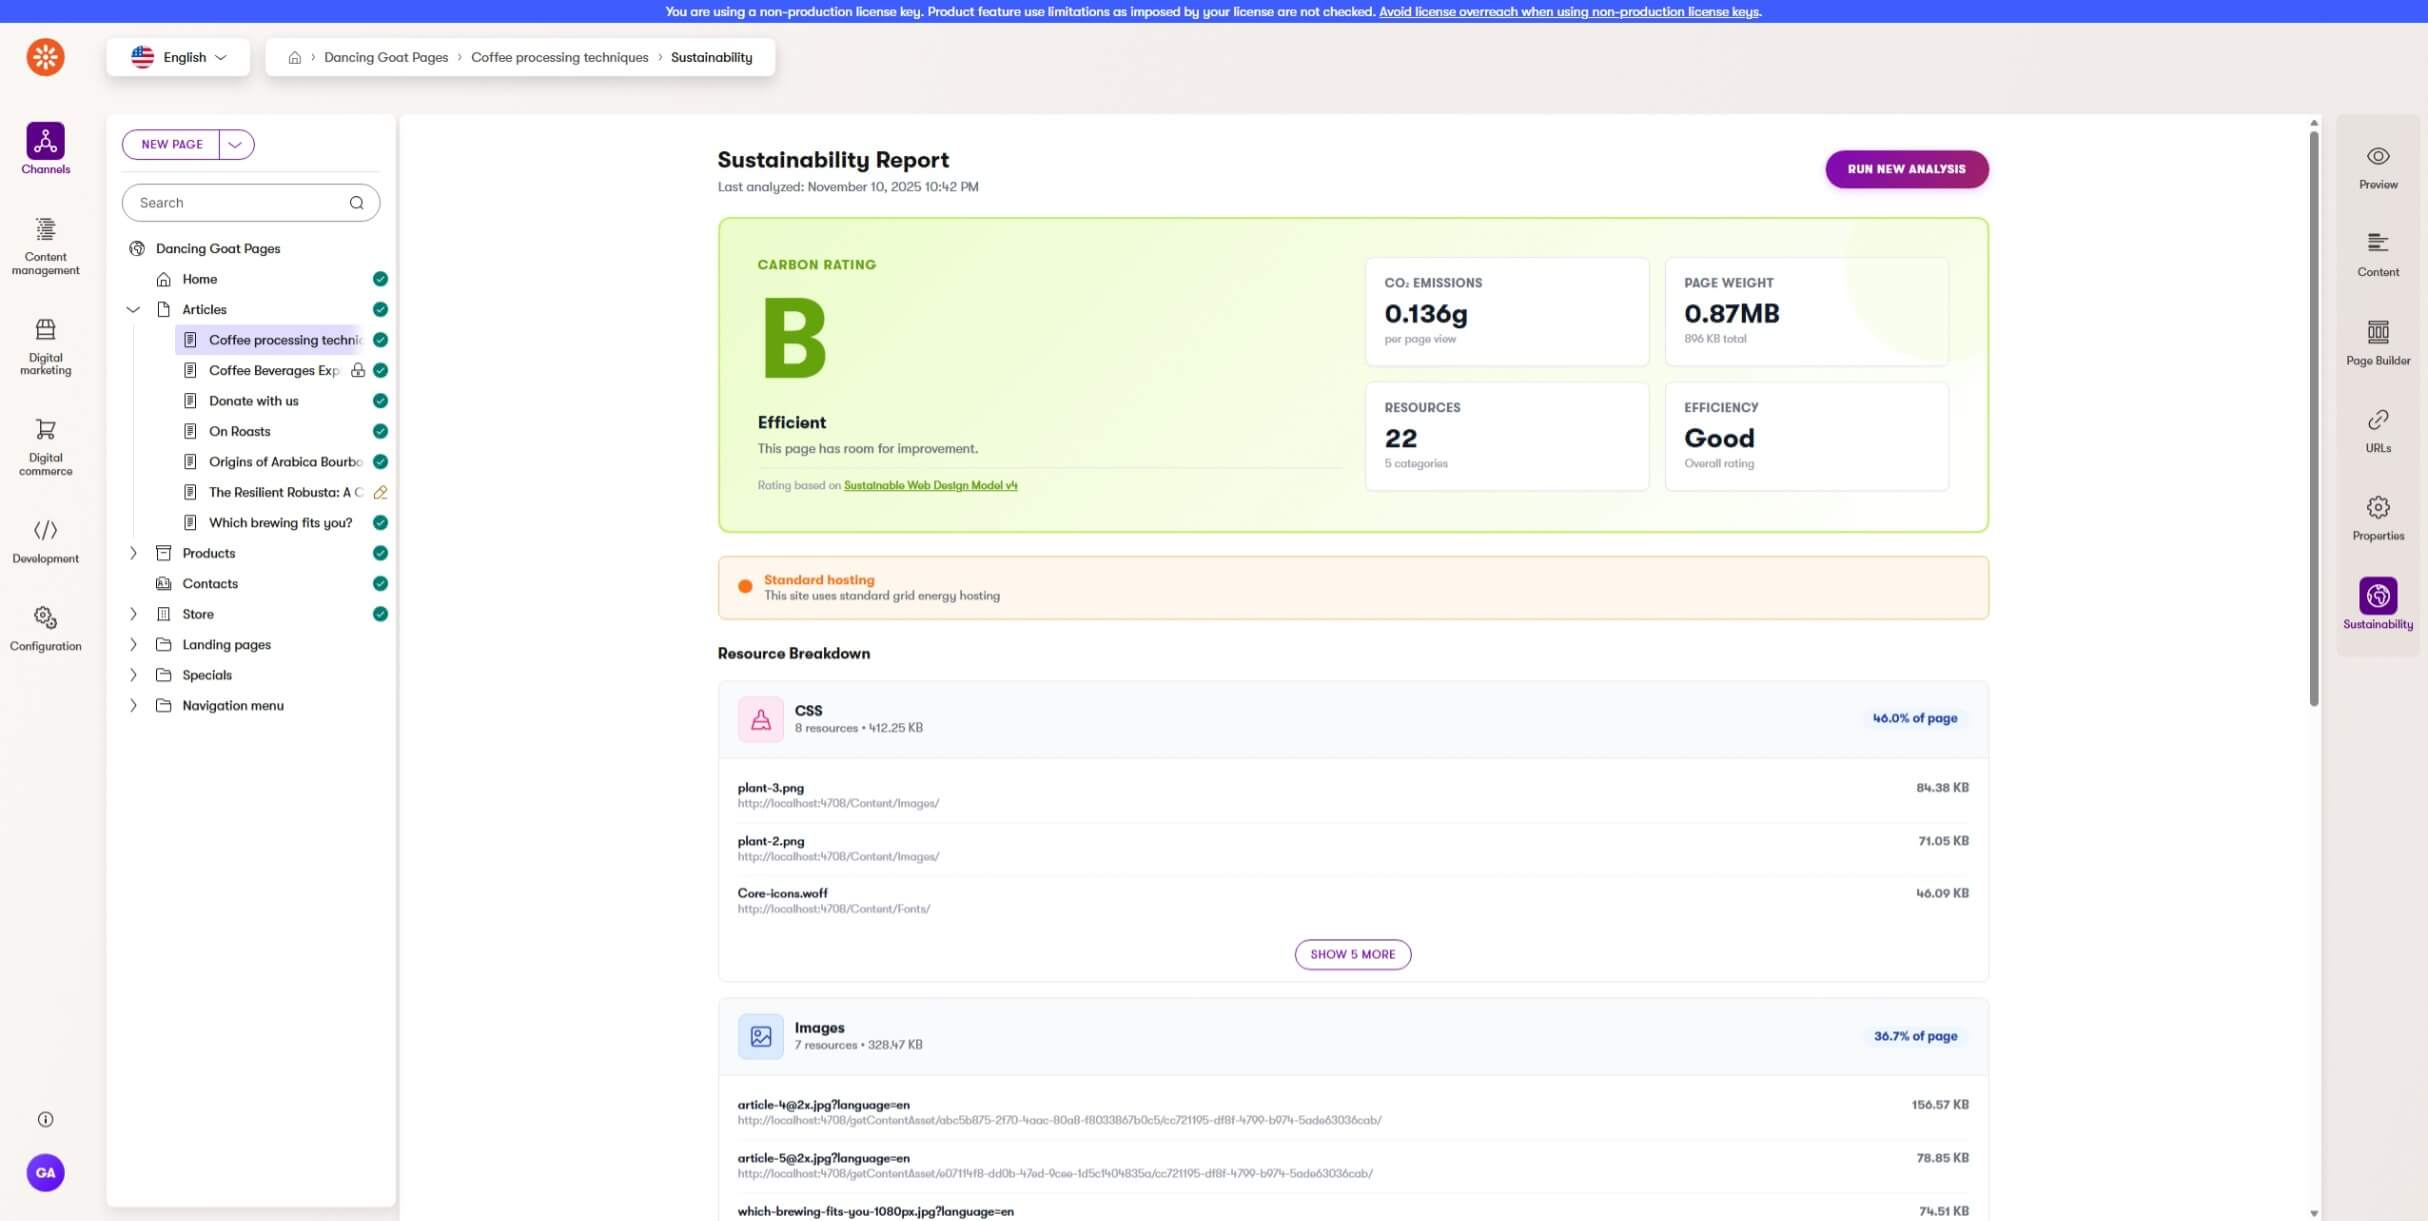
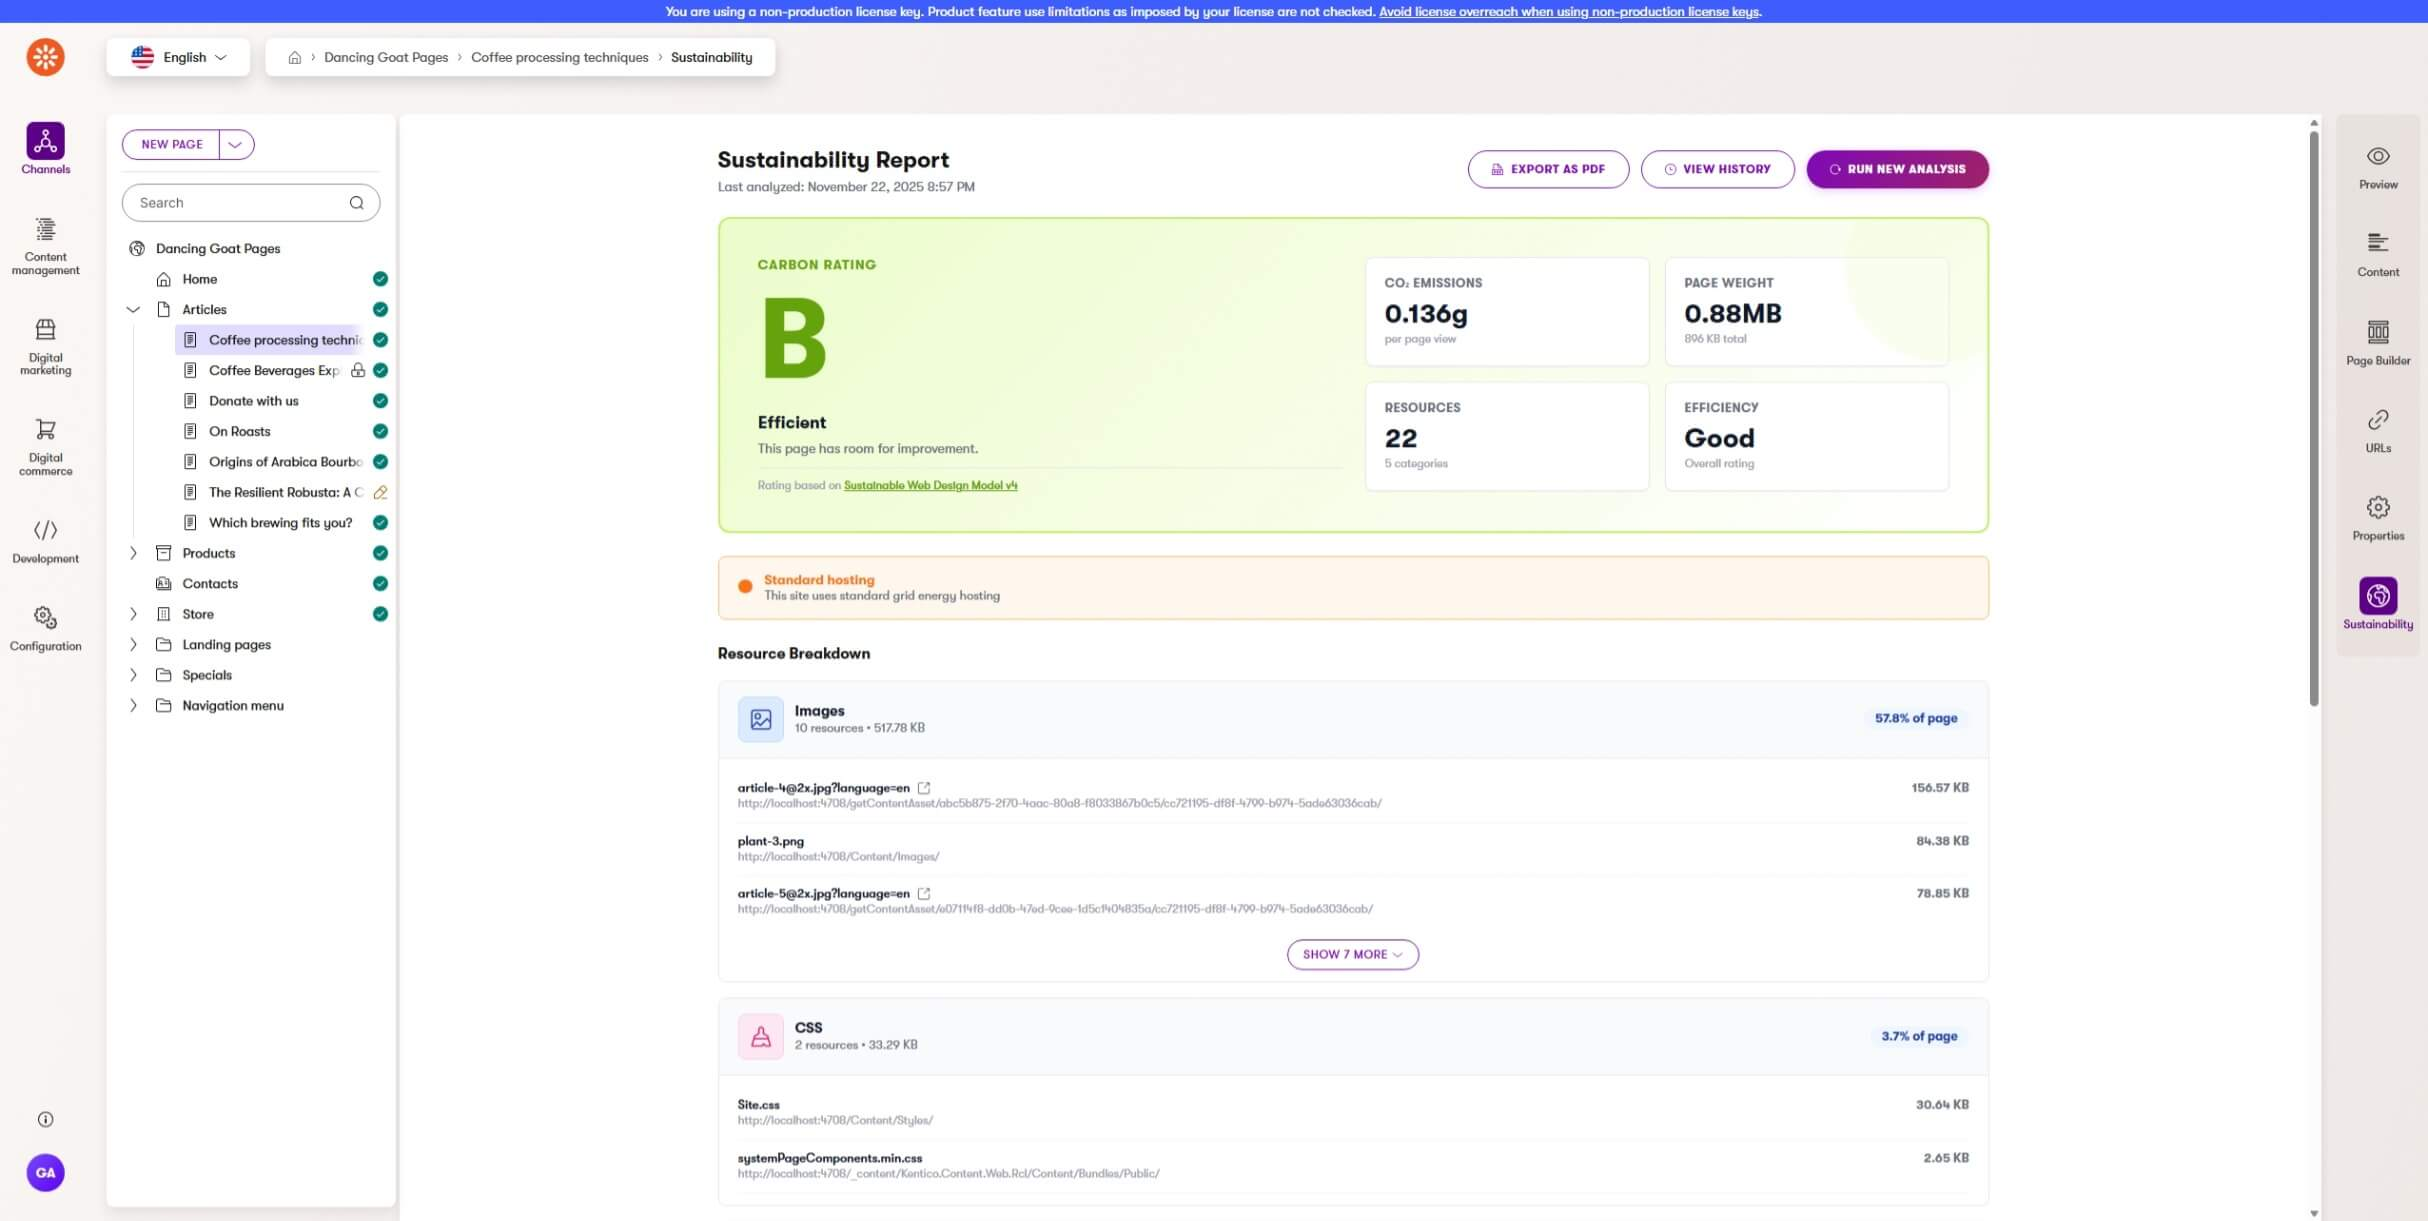
docs: Restructure README with embedded feature screenshots
- Remove standalone Screenshots section
- Embed main screenshot in Sustainability Report feature section
- Embed history screenshot in Historical Tracking feature section
- Update main sustainability report screenshot with new UI buttons
  (Export as PDF, View History, Run New Analysis with icons)
- Add Report History screenshot showing trend charts and historical reports

This improves documentation flow by placing screenshots directly
in their relevant feature sections rather than separating them.

🤖 Generated with [Claude Code](https://claude.com/claude-code)

diff --git a/README.md b/README.md
@@ -12,14 +12,6 @@ A community-driven open-source package that brings sustainability insights and a
 
 > For more details about this package, check out [Bringing Sustainability Insights to Xperience by Kentico](https://www.goldfinch.me/blog/bringing-sustainability-insights-to-xperience-by-kentico) which provides more background information around the package and its origin.
 
-## Screenshots
-
-Once installed, a new tab appears for each page in your web channels. The Sustainability tab allows content editors and marketers to see and benchmark page weight and carbon emissions, which is then converted to a carbon rating for individual pages.
-
-<a href="/src/images/SustainabilityReport-PageTab.jpeg">
-  <img src="/src/images/SustainabilityReport-PageTab.jpeg" width="800" alt="Sustainability Tab for pages in Xperience by Kentico">
-</a>
-
 ## Library Version Matrix
 
 | Xperience Version | Library Version |
@@ -83,6 +75,12 @@ The hosting status is displayed in the Sustainability report with three possible
 
 ### Sustainability Report
 
+Once installed, a new tab appears for each page in your web channels. The Sustainability tab allows content editors and marketers to see and benchmark page weight and carbon emissions, which is then converted to a carbon rating for individual pages.
+
+<a href="/src/images/SustainabilityReport-PageTab.jpeg">
+  <img src="/src/images/SustainabilityReport-PageTab.jpeg" width="800" alt="Sustainability Tab for pages in Xperience by Kentico">
+</a>
+
 Each report includes:
 
 - **Carbon Rating**: Letter grade (A+ through F) based on grams CO₂ per page view
@@ -94,6 +92,10 @@ Each report includes:
 ### Historical Tracking
 
 Track sustainability improvements over time with comprehensive historical reporting:
+
+<a href="/src/images/SustainabilityReport-ReportHistory.jpeg">
+  <img src="/src/images/SustainabilityReport-ReportHistory.jpeg" width="800" alt="Historical tracking with trend charts and report history">
+</a>
 
 - **Trend Analysis**: Two side-by-side charts showing CO₂ emissions and page weight trends over time
 - **Report History**: View all previous sustainability reports for a page with collapsible cards showing key metrics
